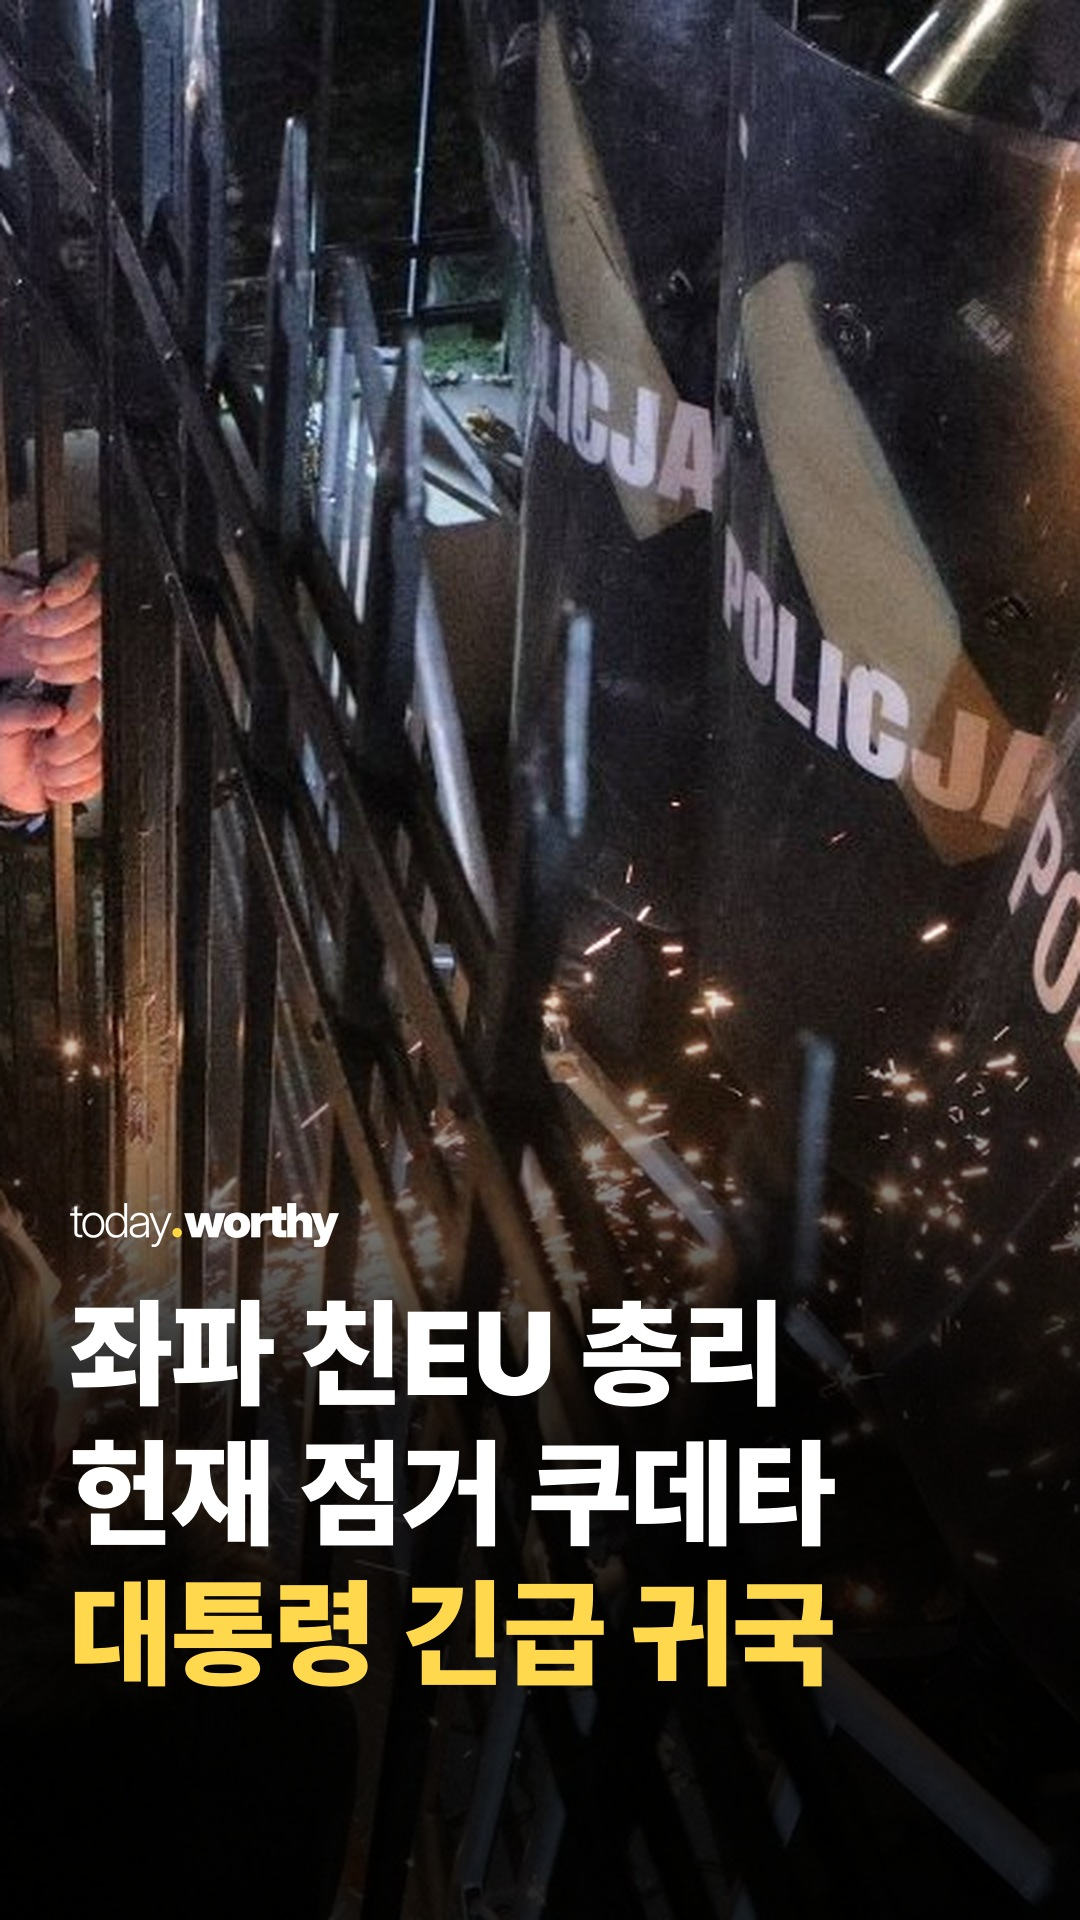
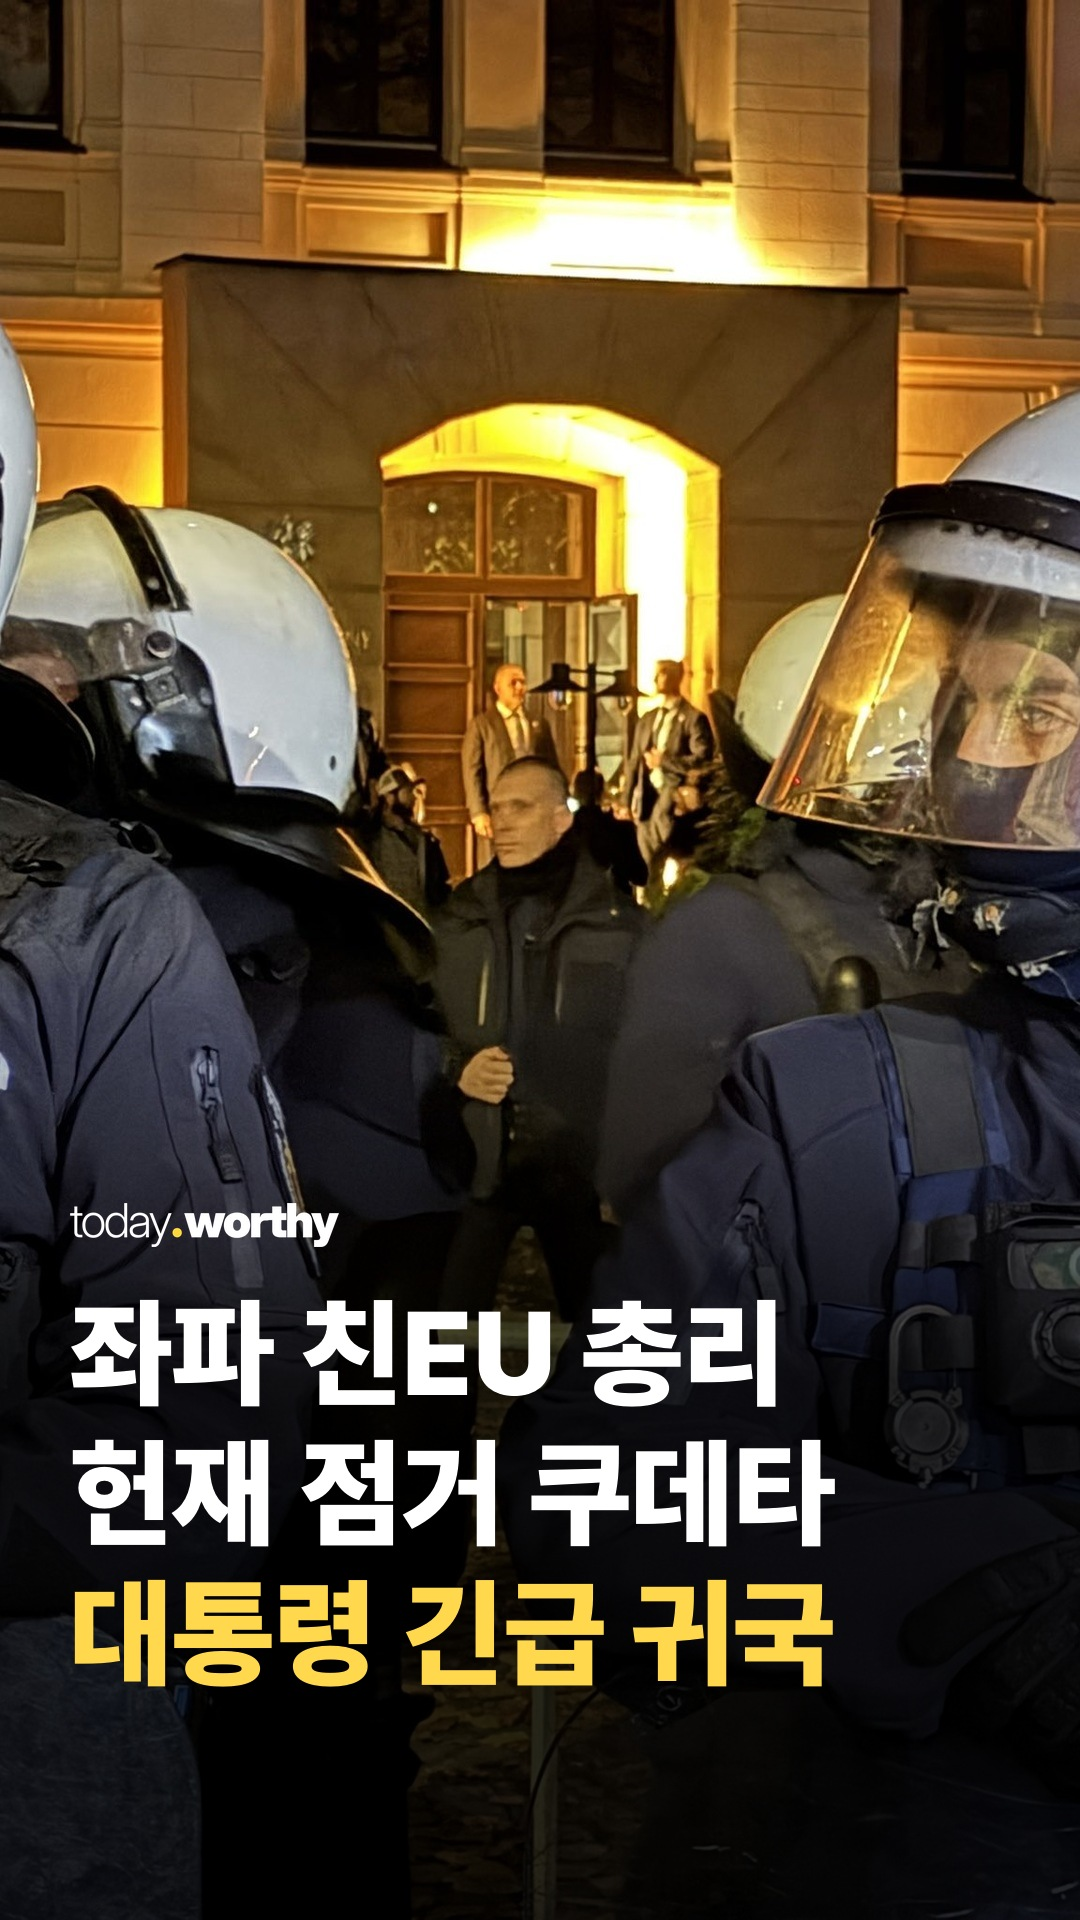
reel: 폴란드 표지 고화질 세로 사진으로 교체
Claude-Session: https://claude.ai/code/session_01FGsw5VDFqaeY2MMD5EnWxE

diff --git a/docs/skill_today-worthy-cardnews-v6.md b/docs/skill_today-worthy-cardnews-v6.md
@@ -290,7 +290,7 @@ description: "@today.worthy(오늘의쓸모) 카드뉴스를 채팅에서 조사
 - **가로(16:9) 영상이 중심인 릴스는 띠형으로 만든다.** 사용자가 이탈리아형(둥근 정사각 패널)과 나란히 올려 비교한 뒤 띠형을 남김(이탈리아형은 가로 영상을 정사각에 맞추느라 확대돼 화질이 뭉개짐). 첫 적용: 폴란드 헌재 릴스. 참고: pickd 릴스(https://www.instagram.com/reel/DfJClo9y-lN/), 로고·색·글꼴은 우리 것.
 - 화면(1080x1920): 배경 = 같은 영상 흐리게·어둡게 / 위 고정 = today.worthy 로고 → 노란 꼬리표(채운 박스) → 굵은 제목 3줄 이내(Black 78, 마지막 줄 노랑) / 가운데 영상 띠 1080x720(y=660, 3:2) / 아래 장면별 자막 = 작은 줄(날짜·장소·상황, Medium 38) + 굵은 2줄(Black 68, 둘째 줄 노랑).
 - 세로 영상도 섞을 수 있다(띠 비율로 잘라 넣음). 장면 2~4초, 마지막 핵심 장면만 길게. 방송사 로고·자막띠는 잘라낸다.
-- **표지(커버)는 띠형이 아니라 격자 통일형으로 따로 만든다(2026.10.31 사용자 동의).** 사진 9:16 꽉 + 아래 굵은 제목 2~3줄(마지막 줄 노랑) + today.worthy 로고 = `scripts/reel_overlay.py`(릴스 기본 양식). 조회가 크게 나온 릴스(테슬라 222만·손오공 177만·시계탑 87.4만)가 모두 이 표지라 릴스 탭 격자를 이 모양으로 맞춘다. 영상 안쪽만 띠형. 정치 구호·국기(팔레스타인 등)는 표지 크롭에서 뺀다.
+- **표지(커버)는 띠형이 아니라 격자 통일형으로 따로 만든다(2026.10.31 사용자 동의).** 사진 9:16 꽉 + 아래 굵은 제목 2~3줄(마지막 줄 노랑) + today.worthy 로고 = `scripts/reel_overlay.py`(릴스 기본 양식). 조회가 크게 나온 릴스(테슬라 222만·손오공 177만·시계탑 87.4만)가 모두 이 표지라 릴스 탭 격자를 이 모양으로 맞춘다. 영상 안쪽만 띠형. 정치 구호·국기(팔레스타인 등)는 표지 크롭에서 뺀다. **표지 사진은 세로 원본이 1080x1920 이상인 것만 쓴다**(가로 1280x720 사진을 9:16으로 자르면 2.7배 확대돼 깨짐, 폴란드 1차 표지 사용자 지적 "비율 똥망"). 가로 사진밖에 없으면 띠형 표지로 간다.
 - 만드는 법: `scripts/landscape_reel/band_build.py`에서 tag·제목(L)·장면(S)만 바꿔 실행. 커버는 같은 틀에 가장 센 사진을 띠에 + 첫 장면 자막.
 - 이탈리아형 도구(`scripts/landscape_reel/build.py`)는 비교용으로만 남긴다. 지도 릴스(아래)는 그대로.
 
